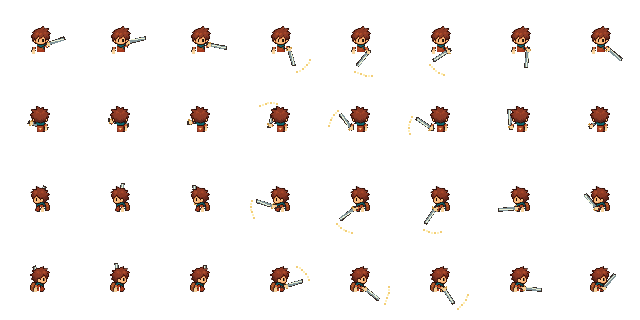
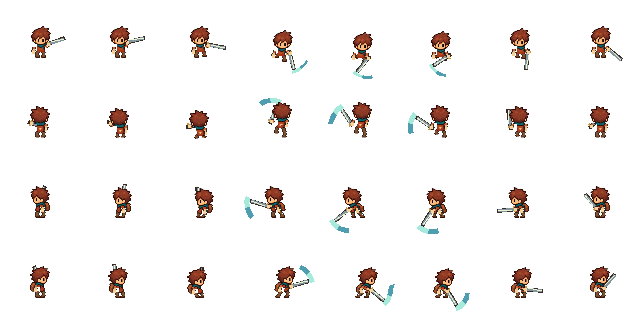
feat: give Talho Agil full-body anticipation and planted slash

diff --git a/docs/decisions/SKILLS1_V1.md b/docs/decisions/SKILLS1_V1.md
@@ -59,3 +59,17 @@ regressoes dos cinco basicos aprovadas. 68 capturas nativas da timeline real, se
 pose_override, nas quatro direcoes: preparo, execucao, contato e impacto ranged.
 Folhas de contato conferidas visualmente; bracos/armas e efeitos legiveis.
 Publicar somente novo preview isolado; TESTE fixo/main/PRODUCAO preservados.
+
+
+## Corpo inteiro V2 - autorizado pelo usuario
+Pedido "quero animacoes de verdade", referencia de cinco acoes corporais.
+Base d647b7e; checkpoint checkpoint-antes-skills1-corpo-v2-2026-10-14.
+Cada Skill recebe antecipacao, apoio/passo, inclinacao do tronco/cabeca e
+recuperacao proprios. Pixels do explorador preservados, sem recolorir identidade.
+Atlas full body parado e upper body caminhando; pernas originais seguem a caminhada.
+Sem alterar fisica, deslocamento real, alcance, dano, cadencia, progressao ou basicos.
+Arco/Cajado nascem visualmente dos landmarks da pose nova, com fisica original.
+Nao publicar no TESTE fixo/main/PRODUCAO; somente preview apos validacao.
+
+Etapa A V2: Talho Agil com recuo, passada, giro/inclinacao e corte com faixa
+luminosa ligada a lamina; 734 verificacoes sem falhas, margens e identidade conferidas.

diff --git a/docs/ARCHITECTURE.md b/docs/ARCHITECTURE.md
@@ -1,3 +1,9 @@
+## Skill 1 - poses de corpo inteiro V2
+Skill1BodyPose compartilha os landmarks em pixels com o baker e a origem visual
+de projeteis. Full-body inclui apoio dos pes parado; upper-body combina a acao
+com pernas originais durante caminhada. Transformacoes de pose sao rasterizadas
+no atlas, nunca aplicadas ao PlayerActor fisico. Core/basicos preservados.
+
 ## Inspecao visual das Skills 1
 A demonstracao pode congelar PlayerActor e projeteis reais e avancar somente
 ActorView/efeitos em delta local (0.5x ou 1x). Execute/repeat nao chama combate,

diff --git a/docs/design/GAME_DESIGN.md b/docs/design/GAME_DESIGN.md
@@ -1,3 +1,8 @@
+## Skills 1 - atuacao corporal V2 autorizada
+Pedido do usuario: movimentos reais de corpo, apoio, antecipacao e recuperacao
+conforme referencia das cinco armas. Preview isolado, sem alterar combate ou
+basicos. Conforme docs/decisions/SKILLS1_V1.md; avaliacao visual pendente.
+
 # Game Design — fundação v0.1
 ## Skills 1 V1 - autorizadas em 14/10/2026
 Conforme SKILLS1_V1.md: cinco etapas independentes com commit/testes,
